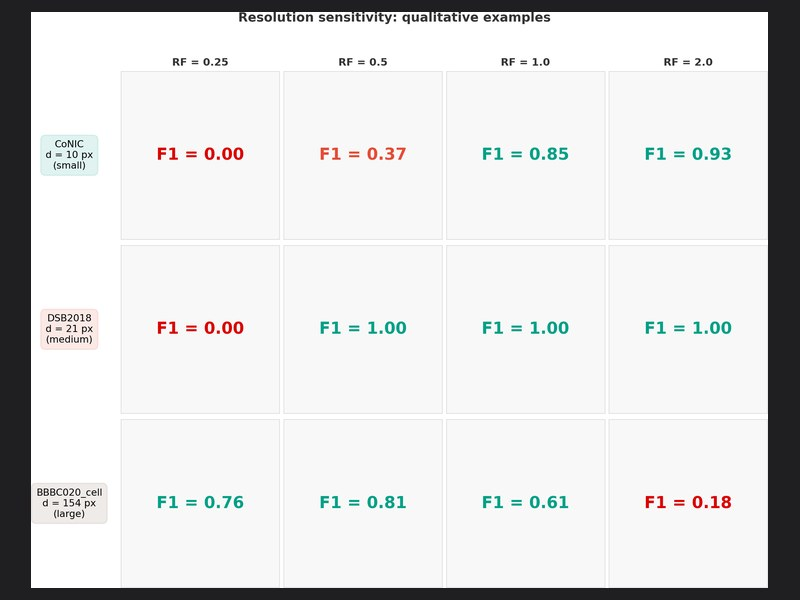
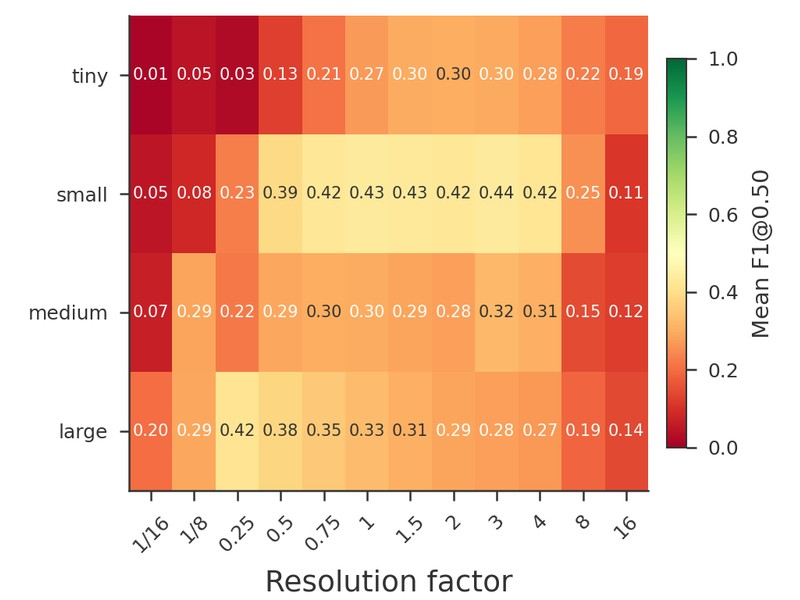
Break the headline before the highlighted phrase; swap the resolution thumbnail
- 'real clinical use' now always starts its own line
- drop the 'any industry' qualifier
- resolution card used a figure whose image panels rendered empty; replaced
  with the cell-size by resolution-factor heatmap

diff --git a/index.html b/index.html
@@ -144,15 +144,15 @@
         <section class="claim">
           <p class="claim-kicker" data-i18n data-en="Yunshu Chen · PhD candidate, Monash Medical AI" data-zh="陈云舒 · 蒙纳士 Medical AI 博士候选人">Yunshu Chen · PhD candidate, Monash Medical AI</p>
           <h3 class="claim-line" data-i18n
-              data-en="I build medical imaging AI for <em>real clinical use</em>."
-              data-zh="我做医学影像 AI，是为了让它<em>真正用在临床</em>。">I build medical imaging AI for <em>real clinical use</em>.</h3>
+              data-en="I build medical imaging AI for<br><em>real clinical use</em>."
+              data-zh="我做医学影像 AI，<br>是为了让它<em>真正用在临床</em>。">I build medical imaging AI for<br><em>real clinical use</em>.</h3>
           <p class="claim-sub" data-i18n
              data-en="I work on coronary ultrasound and cell imaging: segmentation validated against the decisions expert readers actually make, an ultrasound foundation model built from a decade of clinical acquisition, and a reporting agent where every number comes from a deterministic tool rather than the language model. Distilled to run on hospital hardware without a GPU. Three first-author papers under review; one model already in production use."
              data-zh="我的方向是冠脉超声与细胞影像：拿专家实际做出的判断来验证分割结果、用十余年临床采集数据训练超声基础模型、以及一个报告智能体，报告里每个数字都来自确定性工具而非语言模型。模型经蒸馏后可在没有 GPU 的医院硬件上运行。三篇一作论文在投，一个模型已在生产环境使用。">I work on coronary ultrasound and cell imaging: segmentation validated against the decisions expert readers actually make, an ultrasound foundation model built from a decade of clinical acquisition, and a reporting agent where every number comes from a deterministic tool rather than the language model. Distilled to run on hospital hardware without a GPU. Three first-author papers under review; one model already in production use.</p>
 
           <p class="claim-open" data-i18n
-             data-en="Open to research and ML engineering roles, any industry · Melbourne · PhD completing April 2027"
-             data-zh="正在寻找研究岗与机器学习工程岗，行业不限 · 墨尔本 · 博士 2027 年 4 月毕业">Open to research and ML engineering roles, any industry · Melbourne · PhD completing April 2027</p>
+             data-en="Open to research and ML engineering roles · Melbourne · PhD completing April 2027"
+             data-zh="正在寻找研究岗与机器学习工程岗 · 墨尔本 · 博士 2027 年 4 月毕业">Open to research and ML engineering roles · Melbourne · PhD completing April 2027</p>
 
           <div class="hero-cta">
             <a href="#" class="btn btn-primary" data-nav-jump="contact">
@@ -778,8 +778,8 @@
 
         <section class="contact-intro">
           <p data-i18n
-             data-en="I'm interested in research and machine learning engineering roles across industries. My own work is in clinically validated imaging, foundation models and decision support. Happy to talk about collaborations, data sharing, or anything on this site."
-             data-zh="我对研究岗与机器学习工程岗都感兴趣，行业不限。我自己的工作方向是临床验证的影像分析、基础模型与决策支持。也欢迎聊合作、数据共享，或这个网站上的任何内容。">
+             data-en="I'm interested in research and machine learning engineering roles. My own work is in clinically validated imaging, foundation models and decision support. Happy to talk about collaborations, data sharing, or anything on this site."
+             data-zh="我对研究岗与机器学习工程岗都感兴趣。我自己的工作方向是临床验证的影像分析、基础模型与决策支持。也欢迎聊合作、数据共享，或这个网站上的任何内容。">
           </p>
         </section>
 

diff --git a/assets/css/style.css b/assets/css/style.css
@@ -2373,3 +2373,7 @@ body > p:first-child { background: hsl(204, 100%, 32%) !important; color: hsl(0,
 @media (min-width: 768px) {
   .track-cards { grid-template-columns: 1fr 1fr; }
 }
+
+/* the headline breaks before "real clinical use", never inside it */
+.claim-line em { white-space: nowrap; }
+@media (max-width: 400px) { .claim-line em { white-space: normal; } }
